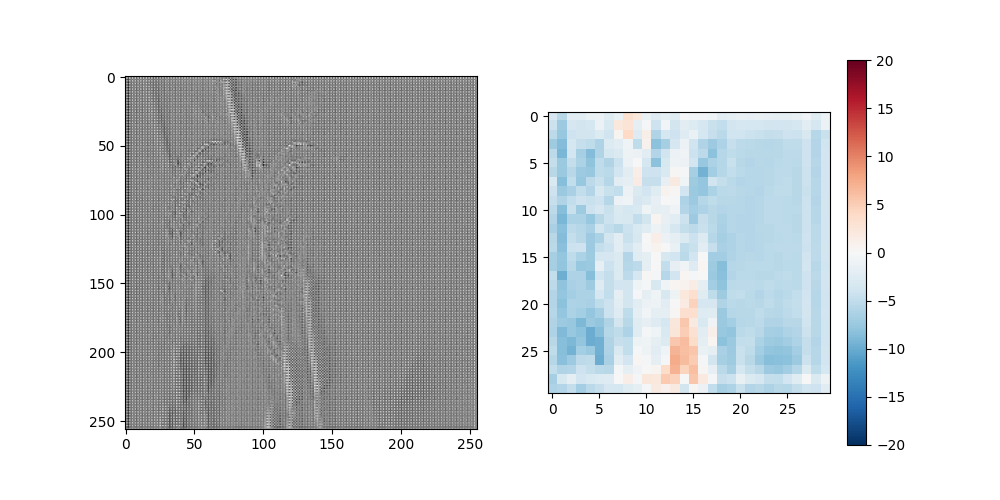
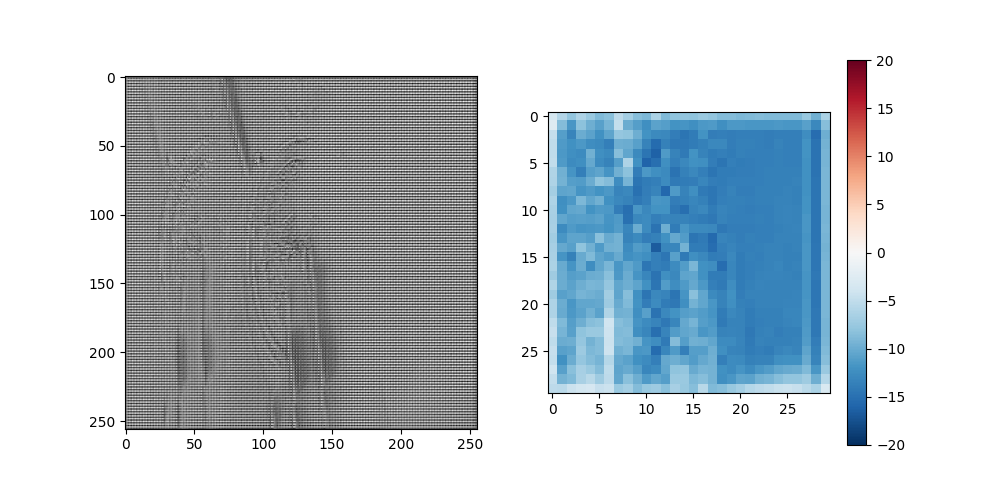
100k gray

diff --git a/pix2pix.py b/pix2pix.py
@@ -380,7 +380,7 @@ def fit(train_ds, test_ds, steps):
       checkpoint.save(file_prefix=checkpoint_prefix)
 
 
-fit(train_lx_rx_y, test_lx_rx_y, steps=1000)
+fit(train_lx_rx_y, test_lx_rx_y, steps=10000)
 example_input, example_target = next(iter(test_lx_rx_y.take(1)))
 
 plt.figure(figsize=(6, 6))
